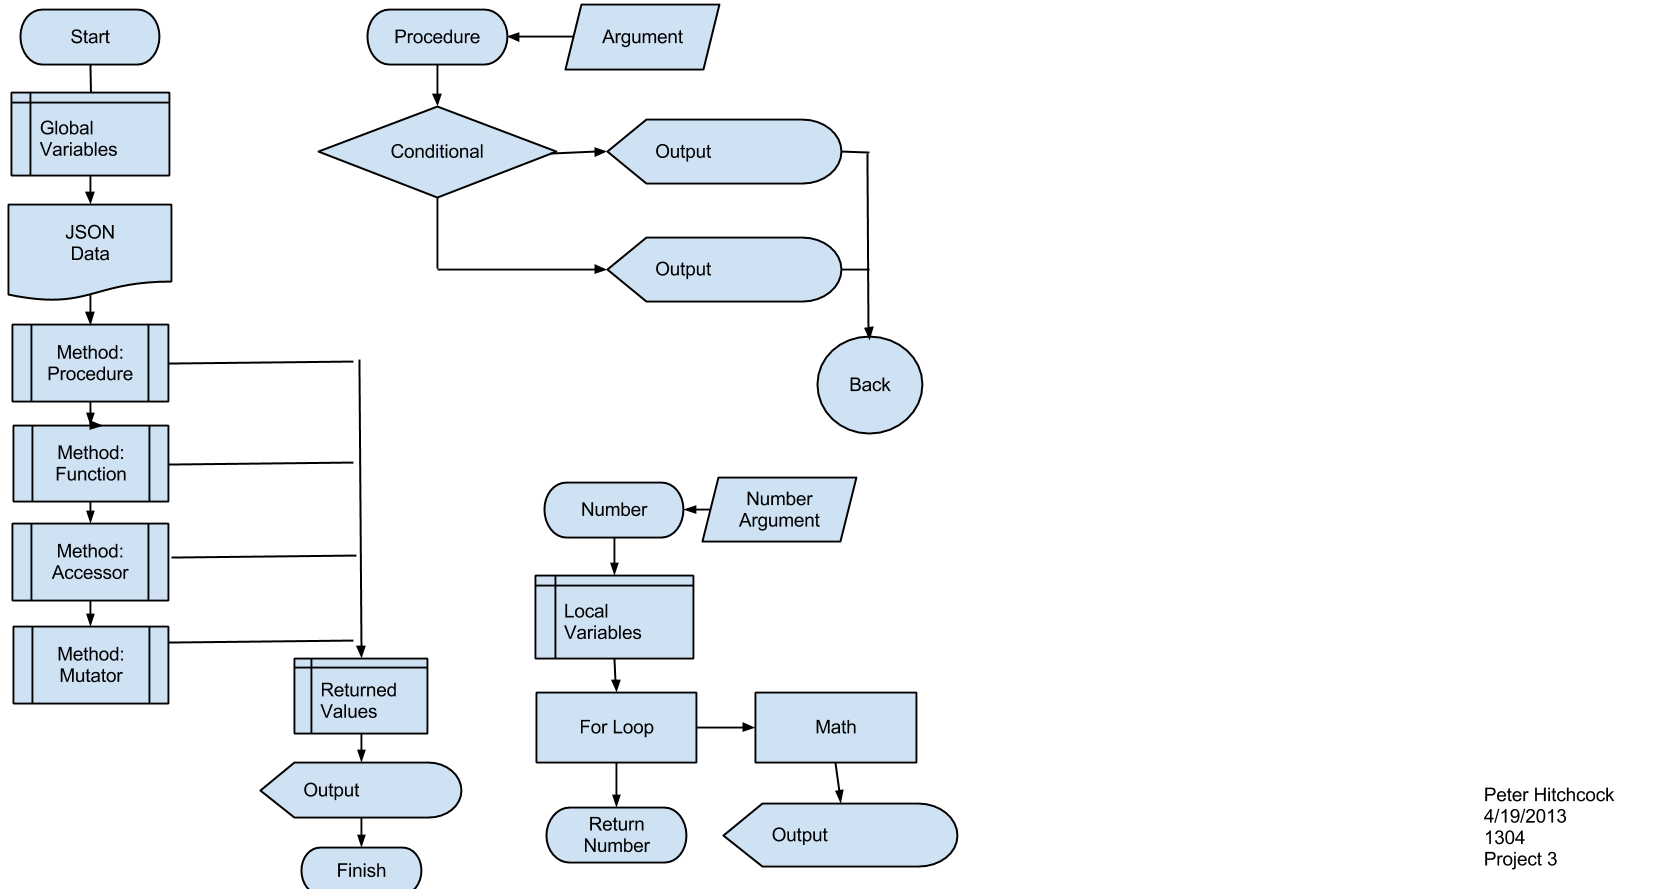
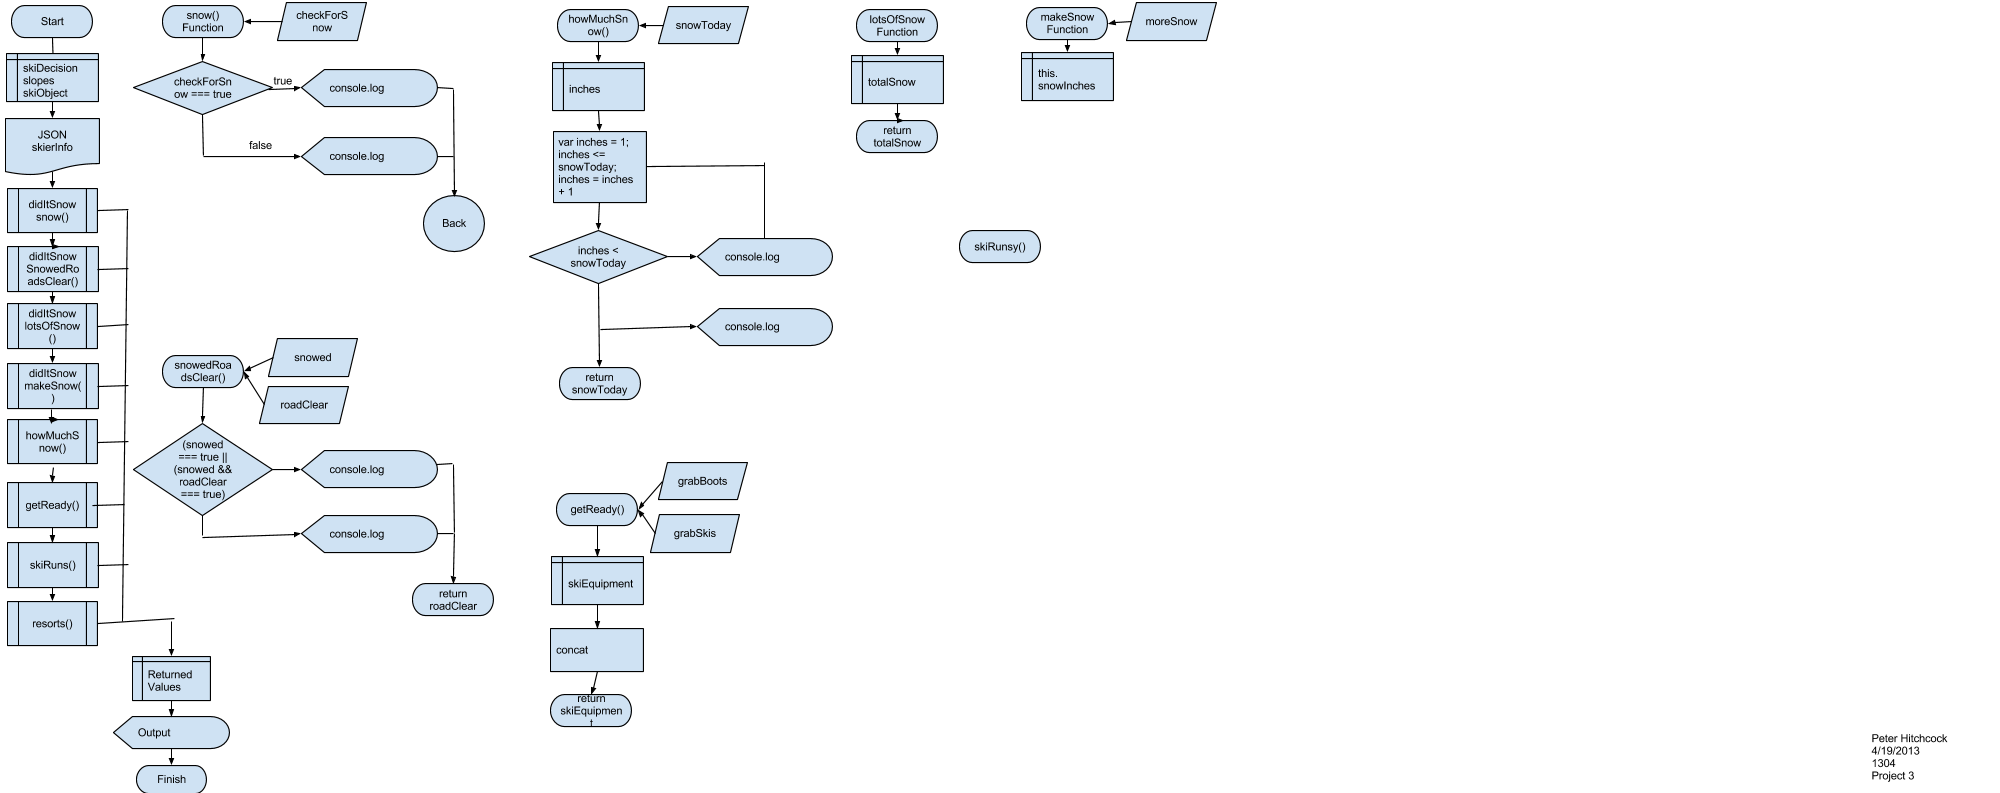
updated html, added all method functions to flowchart

diff --git a/sdi-project3.html b/sdi-project3.html
@@ -1,22 +1,22 @@
 <!DOCTYPE html>
 <html>
 <head>
-    <title>FULL NAME :: Project 3 :: SDI TERMNUMBER</title>
+    <title>Peter Hitchcock :: Project 3 :: SDI 1304</title>
     <link rel="stylesheet" href="sdi.css" type="text/css" />
     <meta charset="UTF-8" />
 </head>
 <body>
 <header>
-    <h1>SDI TERMNUMBER: FULL NAME</h1>
+    <h1>SDI 1304: Peter Hitchcock</h1>
     <h2>Project 3</h2>
 </header>
 <article>
-<p>In this space you should provide a short (one paragraph) explanation of your theme and why you chose it.</p>
-<p>You may also use this space to explain any elements of your code story that may not be entirely clear.  For example, if your theme is thirteenth century Italian poetry, not everyone may be familiar with that.</p>
-<p>Don't forget to replace all of the capitalized elements in this template with your information.  Your term number should be in a <em>yymm</em> format, including the year and the month.</p>
+<p>Refactored Project 1 and Project 2 into Project 3.</p>
+<p>My story is carried over from earlier projects refactored into objects.</p>
+<p>The story reads almost the same as project 2 but with additions to this weeks project.</p>
 </article>
 <footer>
-    <p>COMPLETION DATE, FULL NAME</p>
+    <p>April 25, 2013, Peter Hitchcock</p>
 </footer>
 <script type="text/javascript" src="rename-me.js"></script>
 </body>
